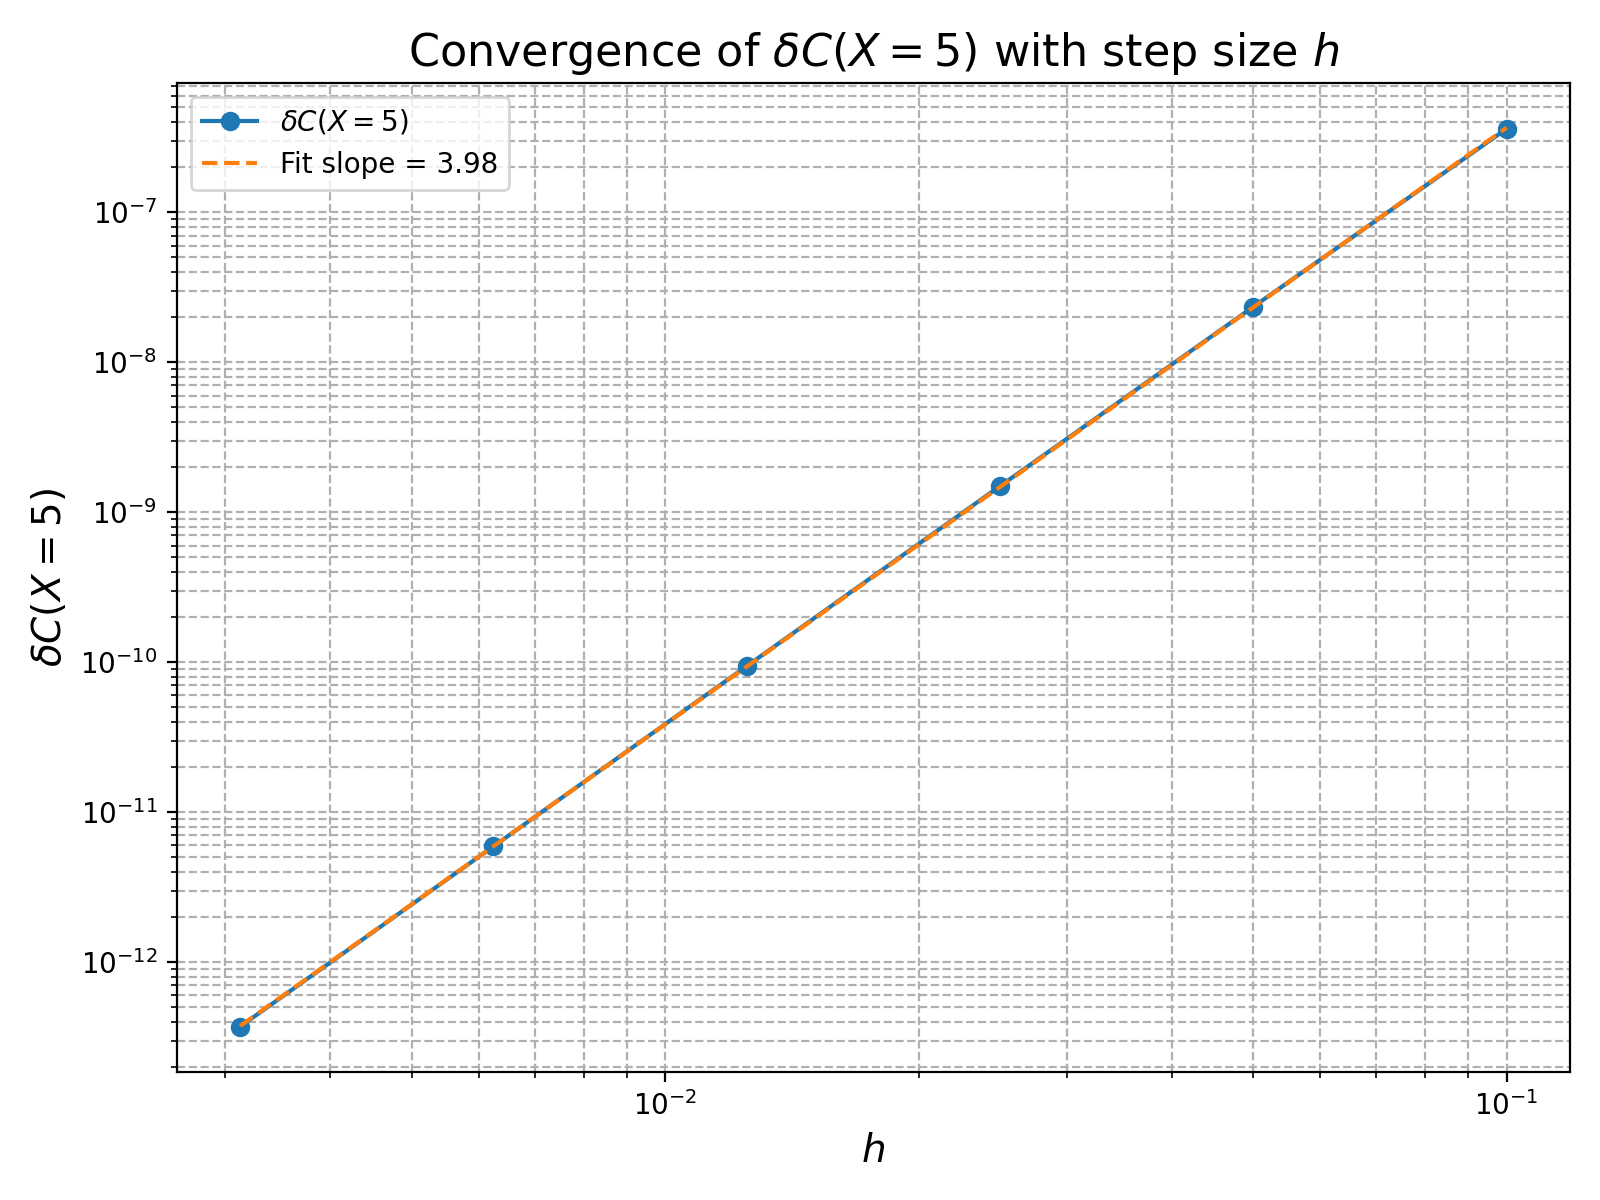
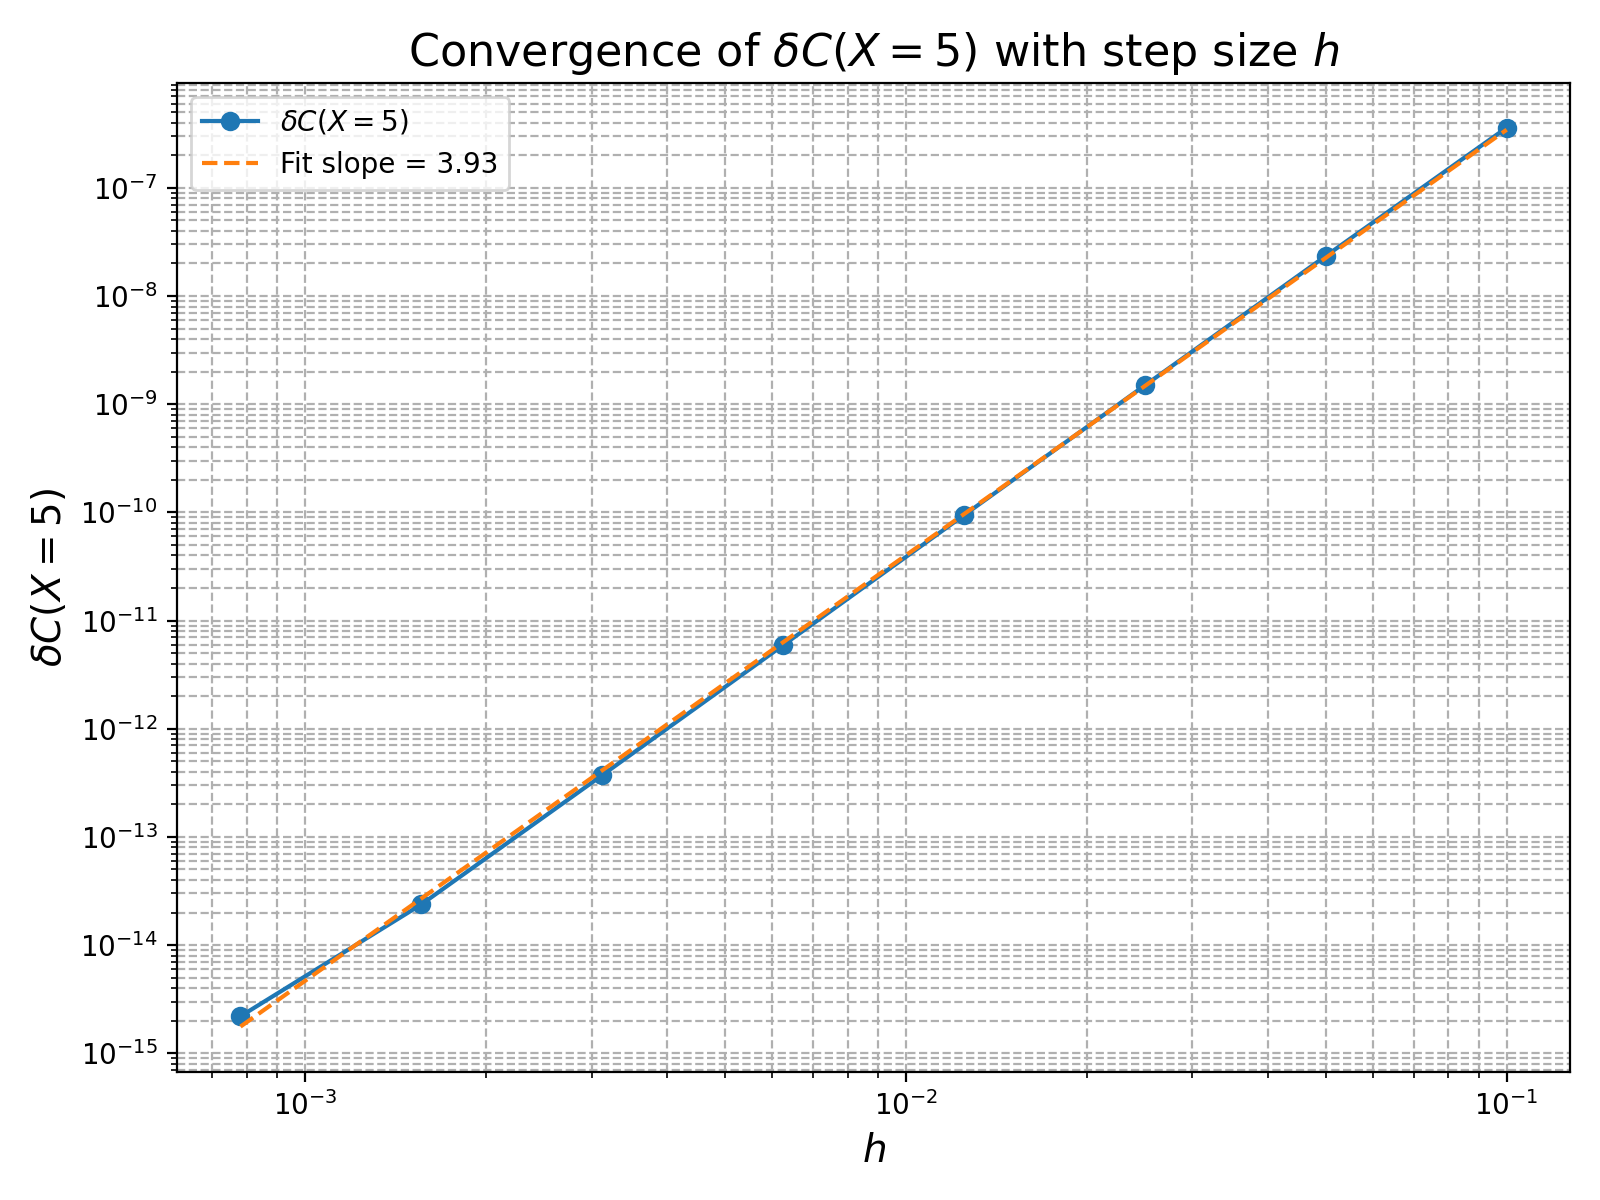
Changed N for C Convergence values

Changed region(s): [[0.0625, 0.0617, 0.9688, 0.925], [0.125, 0.0617, 0.1562, 0.0925], [0.0625, 0.4008, 0.0938, 0.4317]]

diff --git a/C_convergence.C b/C_convergence.C
@@ -19,8 +19,10 @@ int main(){
     double X_final = 5.0;
 
     // Choose different numbers of steps, like we had done in HW6
-    int N_values[] = {50, 100, 200, 400, 800, 1600};
-    int number_of_cases = 6;
+    // I will choose 8 cases, as this code is not very computationally expensive
+    // The original was ran with 10,000 steps
+    int N_values[] = {50, 100, 200, 400, 800, 1600, 3200, 6400};
+    int number_of_cases = 8;
 
     // Output file for writing h and deltaC to
     ofstream outfile("data_files/C_convergence.txt");
